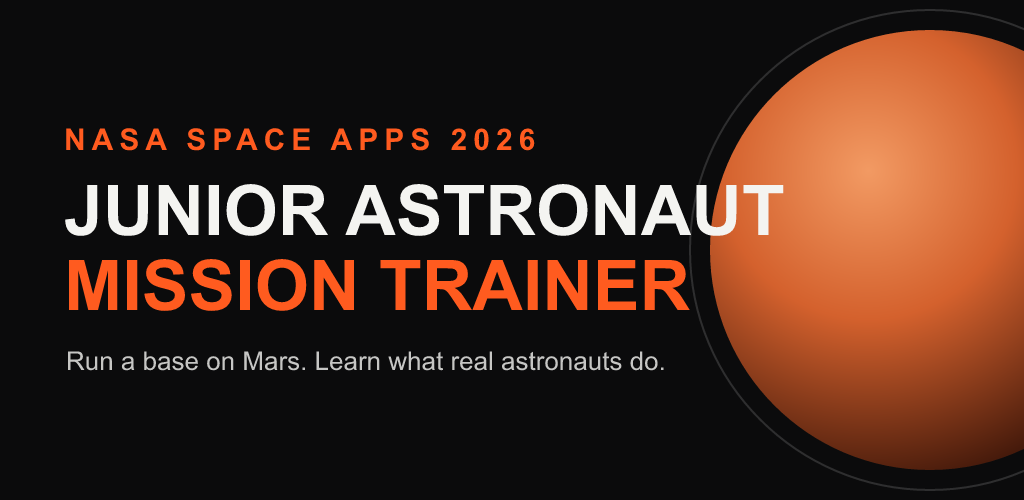
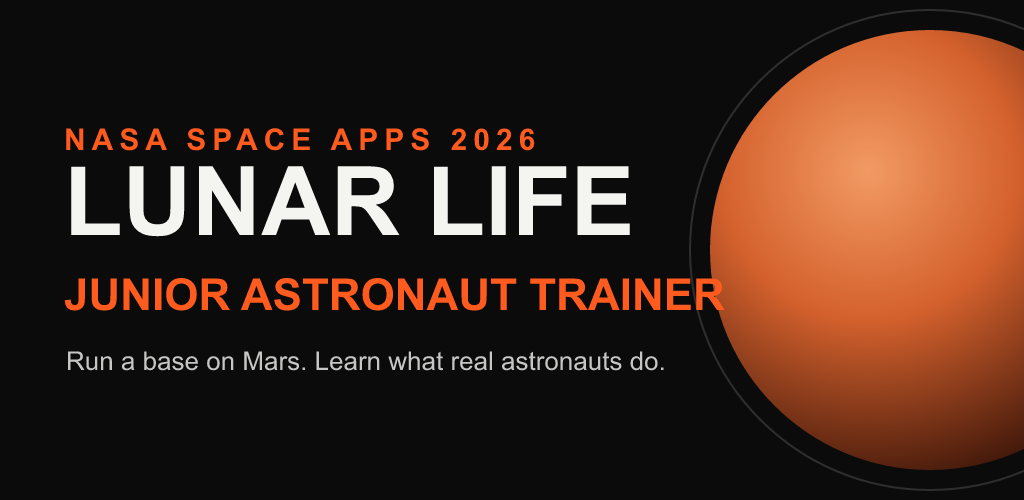
Name the app Lunar Life
Manifest, privacy page, Play Store guide and feature graphic now use
Lunar Life; package name com.binarybandits.lunarlife.

Changed region(s): [[0.0625, 0.33, 0.7812, 0.48], [0.0625, 0.51, 0.7188, 0.63]]

diff --git a/public/privacy.html b/public/privacy.html
@@ -3,7 +3,7 @@
   <head>
     <meta charset="UTF-8" />
     <meta name="viewport" content="width=device-width, initial-scale=1.0" />
-    <title>Privacy Policy · Junior Astronaut Mission Trainer</title>
+    <title>Privacy Policy · Lunar Life</title>
     <style>
       :root { color-scheme: dark; }
       body { margin: 0; background: #0b0b0c; color: #f4f4f1; font: 16px/1.6 system-ui, "Segoe UI", sans-serif; }
@@ -19,10 +19,10 @@
   <body>
     <main>
       <h1>Privacy Policy</h1>
-      <p class="date">Junior Astronaut Mission Trainer · Last updated 14 November 2026</p>
+      <p class="date">Lunar Life · Last updated 14 November 2026</p>
 
       <p>
-        Junior Astronaut Mission Trainer is an educational game for children aged 7 to 12, made by the Binary Bandits team
+        Lunar Life (Junior Astronaut Mission Trainer) is an educational game for children aged 7 to 12, made by the Binary Bandits team
         for the NASA Space Apps Challenge 2026. <strong>We do not collect, store or share any personal information.</strong>
       </p>
 

diff --git a/docs/play-store/README.md b/docs/play-store/README.md
@@ -13,15 +13,13 @@ In Play Console, open **Settings → Developer account → Account details**.
 
 | Field | Value |
 |---|---|
-| App name | 30 characters max. "Junior Astronaut Mission Trainer" is 32, too long. Suggested: **Junior Astronaut Trainer** (24) |
+| App name | **Lunar Life** |
 | Default language | English (United States) |
 | App or game | Game |
 | Free or paid | Free (a free app can never become paid) |
 | Declarations | Read and tick all three yourself: Developer Program Policies, Play App Signing terms, US export laws |
 
-**Name check:** the draft used "Lunar Life", but the game is set on **Mars**, not the Moon. A Moon name on a Mars game will confuse kids and reviewers. Pick a name that matches, for example "Junior Astronaut Trainer" or "Mars Base Trainer".
-
-**Package name** (set when the first build is uploaded, and **it can never be changed**): `com.binarybandits.astrotrainer`
+**Package name** (set when the first build is uploaded, and **it can never be changed**): `com.binarybandits.lunarlife`
 
 ## 2. Store listing
 
@@ -33,7 +31,7 @@ In Play Console, open **Settings → Developer account → Account details**.
 
 > Land on Mars and keep your crew alive!
 >
-> Junior Astronaut Mission Trainer is a learning game for kids aged 7 to 12, made for the NASA Space Apps Challenge 2026. Every choice has a cost, just like on a real mission.
+> Lunar Life is a learning game for kids aged 7 to 12, made for the NASA Space Apps Challenge 2026. Every choice has a cost, just like on a real mission.
 >
 > • Split solar power between heaters, air machines, the greenhouse and the fuel plant
 > • Grow lettuce and potatoes in a glass greenhouse
@@ -82,7 +80,7 @@ The game is a website, so it is wrapped as a **Trusted Web Activity (TWA)**: a s
    npm install -g @bubblewrap/cli
    bubblewrap init --manifest https://nasa-hack-26.pages.dev/manifest.webmanifest
    ```
-   Use package name `com.binarybandits.astrotrainer`, landscape, and keep the generated signing key.
+   Use package name `com.binarybandits.lunarlife`, landscape, and keep the generated signing key.
 2. **Store the signing key and its passwords somewhere safe and private** (not in the repo). If it is lost, the app can never be updated.
 3. Build: `bubblewrap build` → produces `app-release-bundle.aab`.
 4. Upload the `.aab` to **Testing → Internal testing** first, then the closed test.
